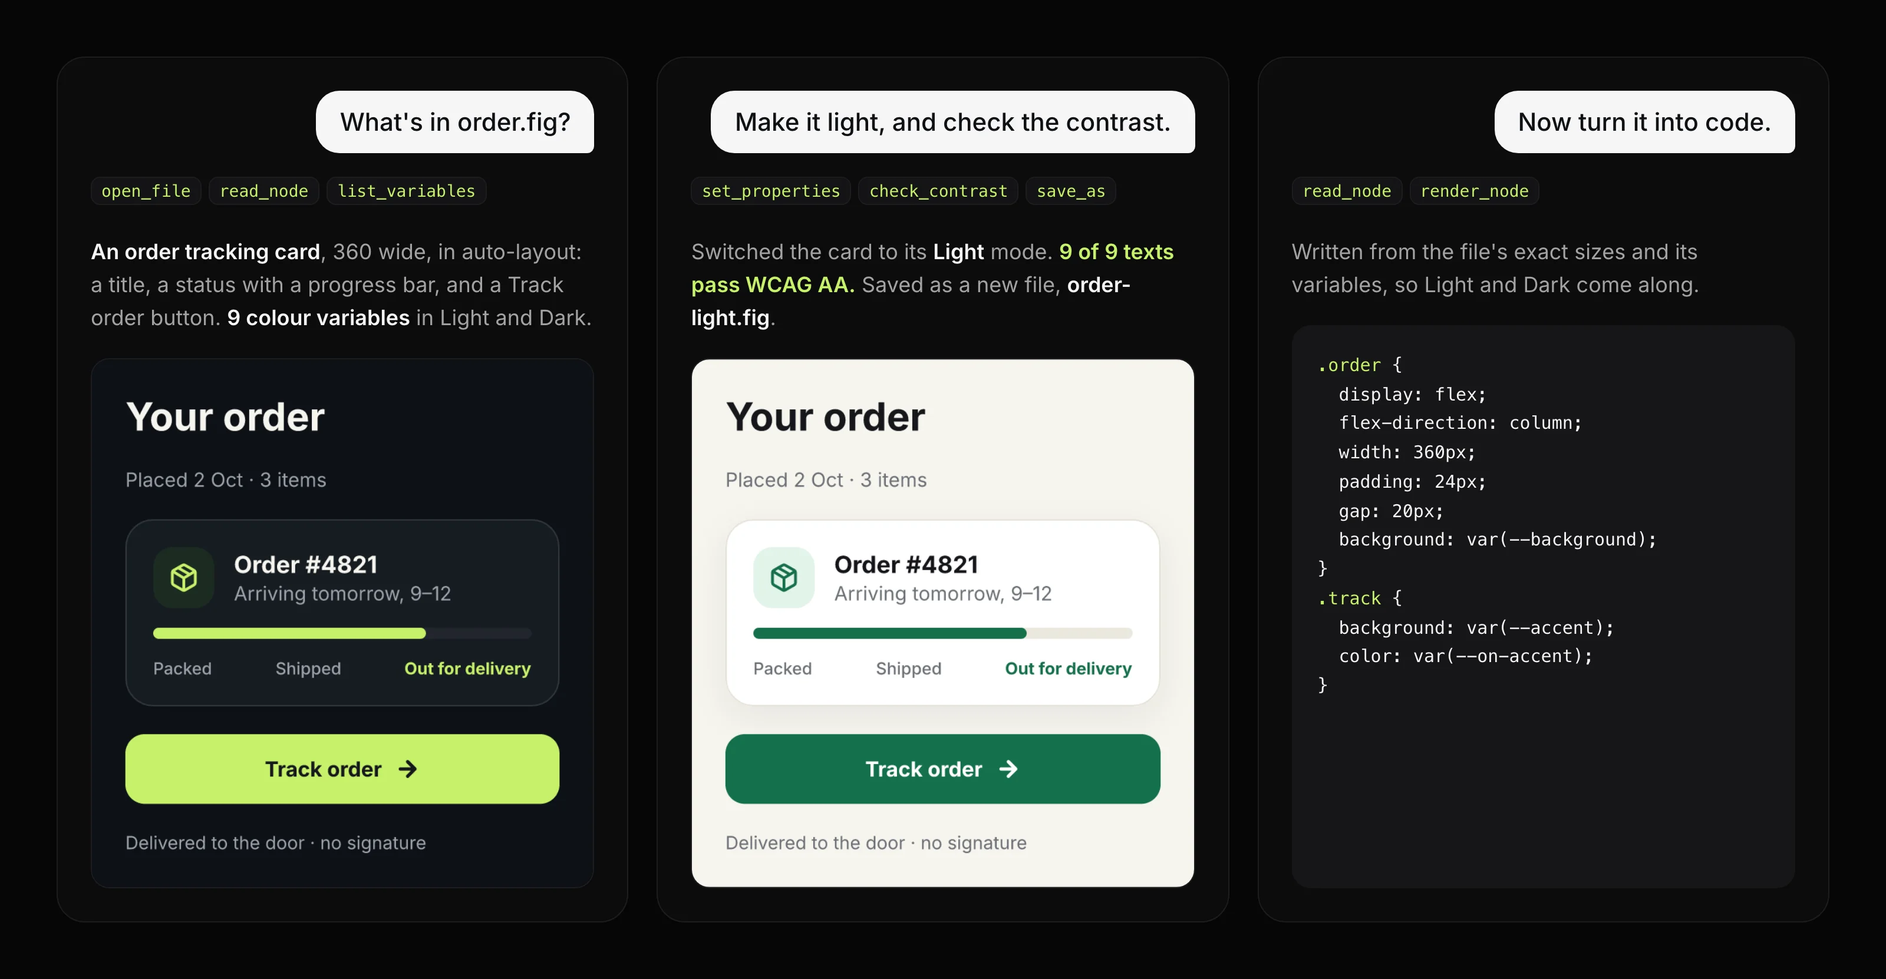
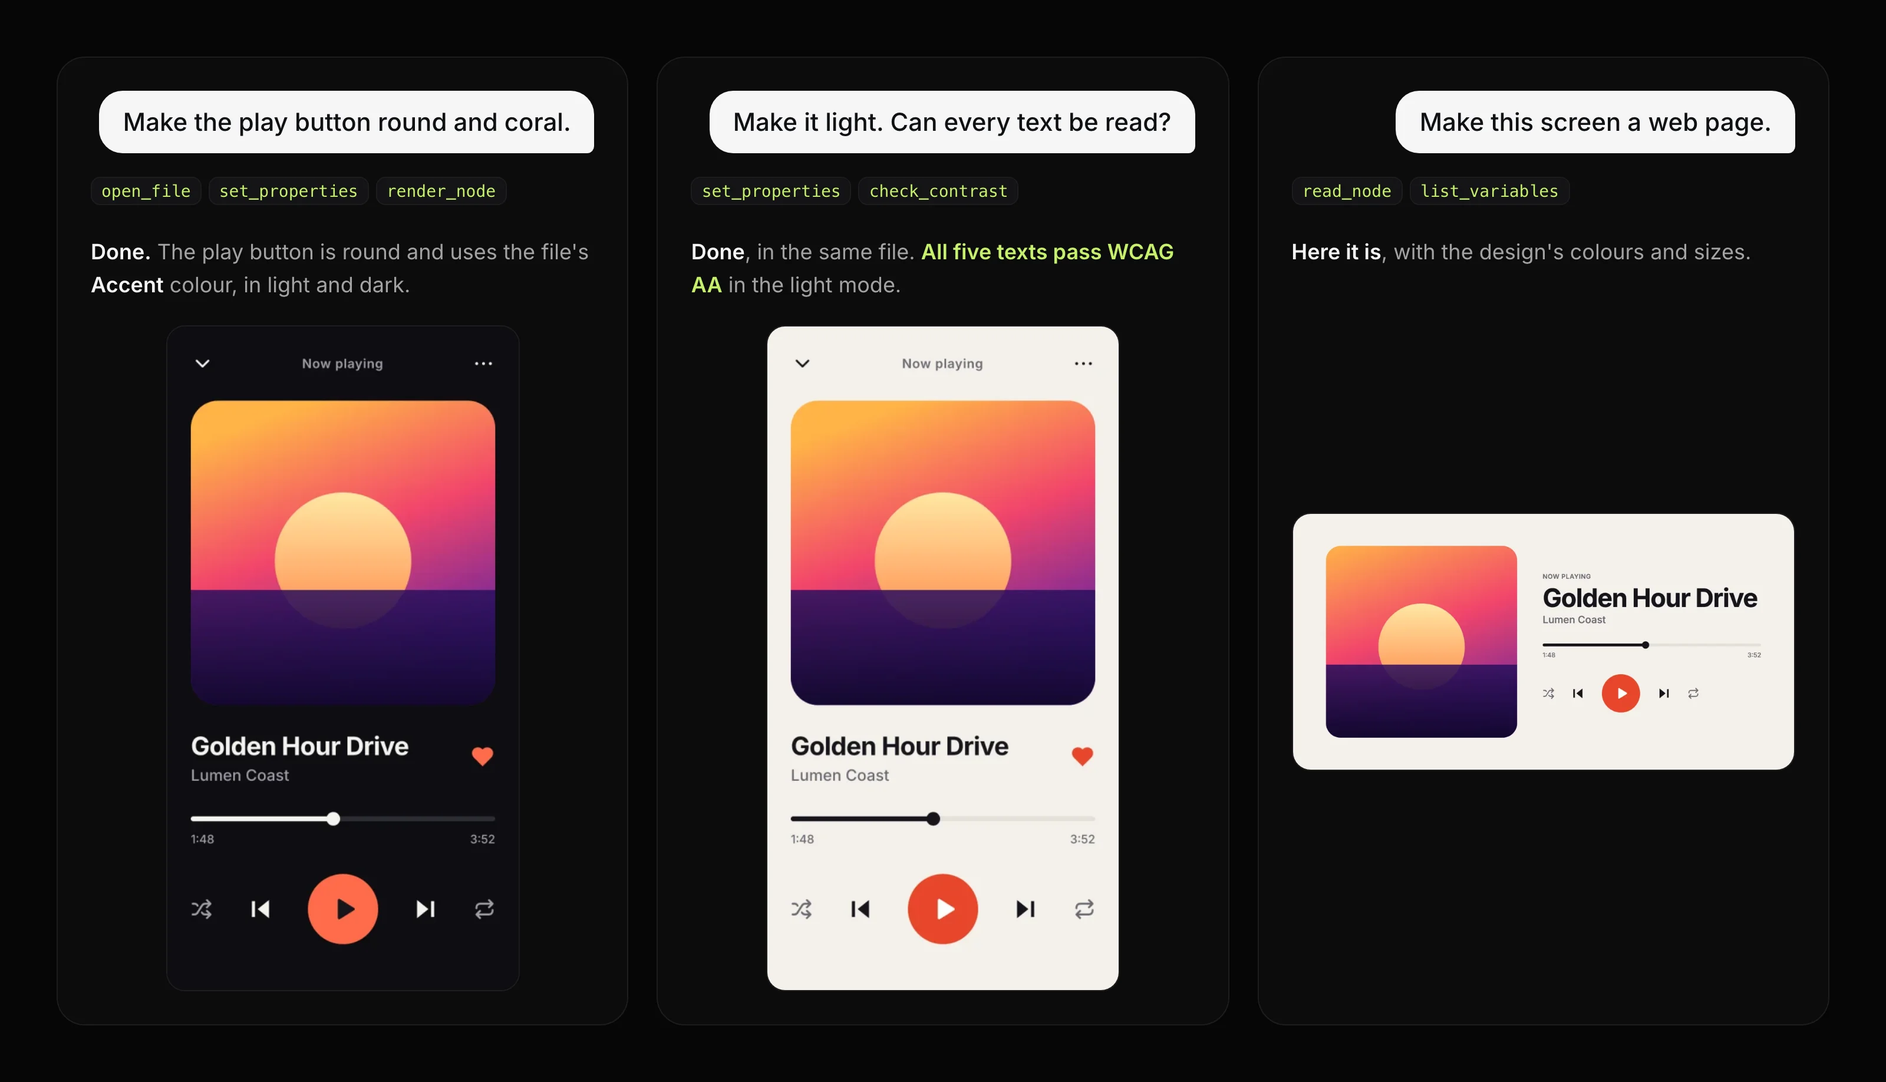
docs: a short README, with install, the panel and limits in their own documents

diff --git a/web/src/content/clients.ts b/web/src/content/clients.ts
@@ -4,7 +4,7 @@ const json = '{ "mcpServers": { "grafta": { "command": "npx", "args": ["-y", "gr
 const then = "Then, in Claude Code: claude mcp add grafta -- grafta mcp";
 const NODE = "Needs Node.js 18 or newer.";
 
-// As README.md's Install section has them: the AI apps, Claude Desktop first (the
+// As docs/INSTALL.md has them: the AI apps, Claude Desktop first (the
 // app of the home's video, and the one with no terminal), then the program.
 export const clients: Client[] = [
   {
@@ -117,7 +117,7 @@ export const clients: Client[] = [
 export const sample = { file: "order.fig", href: "sample/order.fig" };
 export const firstRequest = "Using grafta, what's in order.fig?";
 
-/** grafta's panel for Figma's desktop app, as README.md's "In Figma" gives it. */
+/** grafta's panel for Figma's desktop app, as docs/guides/in-figma.md gives it. */
 export const panel = {
   file: "grafta-figma-plugin.zip",
   href: "https://github.com/n0ss4/grafta/releases/latest/download/grafta-figma-plugin.zip",

diff --git a/web/src/components/home/Install.tsx b/web/src/components/home/Install.tsx
@@ -8,7 +8,7 @@ import { Band, Head, Wrap } from "./Section";
 /**
  * Getting grafta, on the page, in the order it is done: the AI app, then
  * grafta's panel in Figma for the file you have open, then the first request.
- * Every step is here, the panel's included, as README.md's "In Figma" has it.
+ * Every step is here, the panel's included, as docs/guides/in-figma.md has it.
  */
 export function Install() {
   return (

diff --git a/README.md b/README.md
@@ -10,7 +10,7 @@
 
 <p align="center">
   <a href="#install"><strong>Install</strong></a>&ensp;
-  <a href="#in-figma">In Figma</a>&ensp;
+  <a href="docs/guides/in-figma.md">In Figma</a>&ensp;
   <a href="docs/TOOLS.md">Tools</a>&ensp;
   <a href="#documentation">Docs</a>&ensp;
   <a href="https://n0ss4.github.io/grafta/">Website</a>
@@ -19,123 +19,55 @@
 <p align="center">
   <picture>
     <source media="(prefers-color-scheme: dark)" srcset=".github/readme/talk-dark.webp">
-    <img src=".github/readme/talk-light.webp" width="100%" alt="Three requests to an AI app, each with the grafta tools it called. What's in order.fig? An order tracking card, 360 wide, with 9 colour variables in Light and Dark, and its picture. Make it light, and check the contrast: the card in its Light mode, 9 of 9 texts pass WCAG AA, saved as order-light.fig. Now turn it into code: CSS with the card's sizes and its variables.">
+    <img src=".github/readme/talk-light.webp" width="100%" alt="Three requests to an AI app about a music player design, each with the grafta tools it called. Make the play button round and coral: done, with the file's Accent colour. Make it light, can every text be read: all five texts pass WCAG AA. Make this screen a web page: the page, with the design's colours and sizes.">
   </picture>
-  <br>
-  <sub>The sample file, <a href="https://n0ss4.github.io/grafta/sample/order.fig">order.fig</a>. The pictures and the contrast result are grafta's own; the code is an example of what a model writes from them.</sub>
 </p>
 
-**Talk to your Figma files through the AI you already use.** Ask Claude, ChatGPT, Cursor or OpenCode what's in a design, ask it to change something, or to turn it into code. You write in words; grafta is what lets your AI open the file, read it exactly and change it.
+**Talk to your Figma files through the AI you already use.** Ask Claude, ChatGPT, Cursor or OpenCode what's in a design, ask it to change something, or to turn it into code. You write in words; grafta lets your AI open the file, read it exactly and change it.
 
-There is nothing new to learn and no editor to open. grafta works on your computer, with no internet and no Figma account. With [its panel](#in-figma) in Figma's desktop app, your AI works on the file you have open too, and you see each change as it is made.
+It works on your computer, with no internet and no Figma account. With [its panel](docs/guides/in-figma.md) in Figma's desktop app, it works on the file you have open too, and you see each change as it is made.
 
 ## What you get
 
-- **Ask what's in a design.** Its screens, colours, variables and components, explained in plain words.
-- **Change it by asking.** Colours, text, layout, a dark mode, a new screen. Your AI draws the result to check it before it says it is done.
+- **Ask what's in a design.** Its screens, colours, variables and components, in plain words.
+- **Change it by asking.** Colours, text, layout, a dark mode, a new screen. Your AI draws the result to check it.
 - **Turn it into code.** In your stack, with the file's exact sizes, colours and icons.
-- **Never guessed.** Every value comes from the file itself. When grafta leaves something out, it says so.
-- **Your files stay yours.** It never writes over a file: changes are saved as a new one, and nothing leaves your computer through grafta.
+- **Never guessed.** Every value comes from the file. When grafta leaves something out, it says so.
+- **Your files stay yours.** Changes are saved as a new file, never over yours.
 - **Every Figma product.** Figma Design, Slides, FigJam and Sites files.
 - **Free and open source.** MIT licence, no account, no API key.
 
 ## Install
 
-| Where | Run | Needs |
-|---|---|---|
-| **Claude Desktop** | download [`grafta.mcpb`](https://github.com/n0ss4/grafta/releases/latest/download/grafta.mcpb) and open it | nothing else |
-| **Claude Code** | `/plugin install grafta --marketplace n0ss4/grafta` | Node.js 18+ |
-| **ChatGPT desktop, Codex** | `codex plugin marketplace add n0ss4/grafta@main && codex plugin add grafta@grafta` | Node.js 18+ |
-| **OpenCode** | `opencode mcp add grafta --global -- npx -y grafta mcp` | Node.js 18+ |
-
-Claude Desktop installs the bundle from *Settings → Extensions*. The Claude Code plugin registers the server and teaches the model how to use it. For OpenCode, `--global` registers it for every project; leave it out for the current one only.
-
-### As a program
-
-| Platform | Command |
+| Your AI app | Run |
 |---|---|
-| macOS, Linux | `curl -fsSL https://raw.githubusercontent.com/n0ss4/grafta/main/install.sh \| sh` |
-| Homebrew | `brew install n0ss4/tap/grafta` |
-| Windows | `irm https://raw.githubusercontent.com/n0ss4/grafta/main/install.ps1 \| iex` |
-| npm | `npx -y grafta mcp` |
-| Rust | `cargo install grafta` |
+| **Claude Desktop** | download [`grafta.mcpb`](https://github.com/n0ss4/grafta/releases/latest/download/grafta.mcpb) and open it |
+| **Claude Code** | `/plugin install grafta --marketplace n0ss4/grafta` |
+| **ChatGPT desktop, Codex** | `codex plugin marketplace add n0ss4/grafta@main && codex plugin add grafta@grafta` |
+| **OpenCode** | `opencode mcp add grafta --global -- npx -y grafta mcp` |
 
-Then register it once, for example in Claude Code:
+Then ask, in words: *Using grafta, what have I selected in Figma?*
 
-```bash
-claude mcp add grafta -- grafta mcp
-```
-
-Or in a client configured with JSON:
-
-| Client | File | Configuration |
-|---|---|---|
-| **Cursor** | `.cursor/mcp.json` (or `~/.cursor/mcp.json`) | `{ "mcpServers": { "grafta": { "command": "npx", "args": ["-y", "grafta", "mcp"] } } }` |
-| **Claude Desktop**, by hand | `claude_desktop_config.json` | the same as Cursor |
-| **VS Code** | `.vscode/mcp.json` | `{ "servers": { "grafta": { "command": "npx", "args": ["-y", "grafta", "mcp"] } } }` |
-
-With grafta installed by the script, Homebrew or Cargo, `"command": "grafta", "args": ["mcp"]` does the same without npm.
-
-Prebuilt for macOS (Apple silicon and Intel), Linux (x86_64 and arm64) and Windows (x86_64), as one self-contained binary. The binaries are not signed: if macOS says it cannot check grafta the first time it runs, allow it in *System Settings → Privacy & Security*. We have run it by hand on a Mac with Apple silicon, in Claude Code and Claude Desktop; the tests also pass on Linux and Windows in CI. The other apps use the same setup and have not been tried by us. ChatGPT on the web reads no local server, so it cannot use grafta yet.
-
-If something does not work, [Troubleshooting](docs/TROUBLESHOOTING.md) goes by what you see.
-
-### In Figma
-
-To work on the file you have open in Figma's desktop app, add grafta's panel to Figma once. grafta must be installed in your AI app as above, the same release as the panel.
-
-1. Download [`grafta-figma-plugin.zip`](https://github.com/n0ss4/grafta/releases/latest/download/grafta-figma-plugin.zip) and unzip it.
-2. In Figma's desktop app: *Plugins → Development → Import plugin from manifest…*, and choose the `manifest.json` in that folder.
-3. Open a file, then *Plugins → Development → grafta*. The panel looks for grafta on your computer.
-4. With your AI app running grafta, the panel finds it and asks whether to allow it. Click **Allow**: it does not ask again on this computer.
-
-Each change shows in the file as it is made, and Figma saves it: each call grafta makes is one step of *Edit → Undo*. The panel gathers the calls of each request and shows each one before and after, with *Revert this request* to put it all back. Choose **Ask me first** to apply or skip each change yourself, protect the layers the AI must not touch, and **Stop** refuses every call until you press Resume. It talks to grafta on your computer and to nothing else. A few tools are not there yet, such as `export_pdf` and `check_contrast`: the [tool reference](docs/TOOLS.md) says, for each, what it does on the open file. Figma in a browser has not been tried.
-
-## Try it
-
-Ask in words, in your AI app:
-
-> Using grafta, what have I selected in Figma?
-
-> Using grafta, what's in order.fig?
-
-> Make it light, and check the contrast. Now turn it into code.
-
-No file at hand? Use [this sample](https://n0ss4.github.io/grafta/sample/order.fig). A Figma file on your computer comes from *File → Save local copy…* in Figma. In Claude Desktop, say where the file is, like `~/Downloads/order.fig`: a file uploaded to the chat lives in Claude's cloud, so Claude copies it to a folder on your Mac that you allow, and grafta opens it there.
-
-No AI app at hand? [Open a Figma file in your browser](https://n0ss4.github.io/grafta/open/): its pages and screens, PNGs and design tokens, with grafta running in the page and nothing uploaded.
-
-[What to ask](docs/guides/what-to-ask.md) has prompts for code, dark mode, audits, tokens, accessibility, screens from data and decks.
+Cursor, VS Code, the program for macOS, Linux and Windows, and what each needs: [Install](docs/INSTALL.md). For the file you have open, add [grafta's panel](docs/guides/in-figma.md) to Figma's desktop app.
 
 ## "What's the catch?"
 
-None. grafta is free and open source, needs no Figma account or API key, and makes no network call. What your model reads through it is a tool result like any other, sent wherever your AI app sends the conversation.
-
-It does not interpret designs: your model does. grafta answers what is in the file and writes what it is told, so how good the code is depends on your model. It writes no code itself.
-
-## Limits
-
-- **On a file, it is not live.** You work on a saved copy and open the new file it gives back. For the file you have open, use [the panel](#in-figma), or [Figma's own server](https://developers.figma.com/docs/figma-mcp-server/).
-- **It works on files**, and with its panel on the file open in Figma's desktop app, not Figma's cloud. `new_file` takes Figma's format from a `.fig` you have; grafta does not ship it.
-- **Pictures are close, not Figma's.** They use the fonts installed on your machine: with the design's font installed, most lines lay out within 2% of Figma's width; without it, a stand-in is used and the caption says so.
-- **An open file costs memory**, far more than its size: on one Mac, a 57 MB file took 1.3 GB while open and an 86 MB one 5.5 GB. Close what you are done with.
-- **Not yet:** auto-layout grids, component slots, boolean operations, directional transitions and mouse enter and leave in a prototype written (they are read), Dev Mode annotations, and component properties on variants.
-- **Only grafta's own variables and styles can be changed.** The file's existing ones are read and bound to, not edited.
+None. grafta is free and open source, needs no account and makes no network call. It does not interpret designs: your model does, so how good the code is depends on your model. What it cannot do yet is in [Limits](docs/LIMITS.md).
 
 ## Documentation
 
-- [Tool reference](docs/TOOLS.md), generated from the server's own tool list ([on the website](https://n0ss4.github.io/grafta/tools/))
-- [What to ask](docs/guides/what-to-ask.md), and what each family of tools does
-- [Examples](docs/guides/examples.md): the four products, a frame designed in three steps, Figma to json-render
-- [From Figma to json-render](docs/guides/json-render.md)
-- [From a web page](docs/guides/from-a-web-page.md): HTML to editable layers with `import_layout`
-- [From a terminal](docs/guides/from-a-terminal.md): the same tools without a model, and batches for CI
-- [Troubleshooting](docs/TROUBLESHOOTING.md)
+- [Install](docs/INSTALL.md)
+- [In Figma](docs/guides/in-figma.md): the panel for the file you have open
+- [What to ask](docs/guides/what-to-ask.md)
+- [Tool reference](docs/TOOLS.md)
+- [Examples](docs/guides/examples.md)
+- [From a web page](docs/guides/from-a-web-page.md) and [from a terminal](docs/guides/from-a-terminal.md)
+- [Limits](docs/LIMITS.md) and [Troubleshooting](docs/TROUBLESHOOTING.md)
 
 ## Contributing
 
-How it is built ([ARCHITECTURE](docs/ARCHITECTURE.md)), where it is going ([ROADMAP](docs/ROADMAP.md)) and how to work on it ([CONTRIBUTING](docs/CONTRIBUTING.md)). What changed is in the [CHANGELOG](CHANGELOG.md); report a vulnerability as [SECURITY](SECURITY.md) says.
+Read [CONTRIBUTING](docs/CONTRIBUTING.md) and [ARCHITECTURE](docs/ARCHITECTURE.md). Where it is going: [ROADMAP](docs/ROADMAP.md). Report a vulnerability as [SECURITY](SECURITY.md) says.
 
 ## Licence
 
-MIT. grafta is not affiliated with Figma, and reads and writes its format with no help from it.
+MIT. grafta is not affiliated with Figma.

diff --git a/docs/INSTALL.md b/docs/INSTALL.md
@@ -1,0 +1,57 @@
+# Install
+
+| Where | Run | Needs |
+|---|---|---|
+| **Claude Desktop** | download [`grafta.mcpb`](https://github.com/n0ss4/grafta/releases/latest/download/grafta.mcpb) and open it | nothing else |
+| **Claude Code** | `/plugin install grafta --marketplace n0ss4/grafta` | Node.js 18+ |
+| **ChatGPT desktop, Codex** | `codex plugin marketplace add n0ss4/grafta@main && codex plugin add grafta@grafta` | Node.js 18+ |
+| **OpenCode** | `opencode mcp add grafta --global -- npx -y grafta mcp` | Node.js 18+ |
+
+Claude Desktop installs the bundle from *Settings → Extensions*. The Claude Code plugin registers the server and teaches the model how to use it. For OpenCode, `--global` registers it for every project; leave it out for the current one only.
+
+## As a program
+
+| Platform | Command |
+|---|---|
+| macOS, Linux | `curl -fsSL https://raw.githubusercontent.com/n0ss4/grafta/main/install.sh \| sh` |
+| Homebrew | `brew install n0ss4/tap/grafta` |
+| Windows | `irm https://raw.githubusercontent.com/n0ss4/grafta/main/install.ps1 \| iex` |
+| npm | `npx -y grafta mcp` |
+| Rust | `cargo install grafta` |
+
+Then register it once, for example in Claude Code:
+
+```bash
+claude mcp add grafta -- grafta mcp
+```
+
+Or in a client configured with JSON:
+
+| Client | File | Configuration |
+|---|---|---|
+| **Cursor** | `.cursor/mcp.json` (or `~/.cursor/mcp.json`) | `{ "mcpServers": { "grafta": { "command": "npx", "args": ["-y", "grafta", "mcp"] } } }` |
+| **Claude Desktop**, by hand | `claude_desktop_config.json` | the same as Cursor |
+| **VS Code** | `.vscode/mcp.json` | `{ "servers": { "grafta": { "command": "npx", "args": ["-y", "grafta", "mcp"] } } }` |
+
+With grafta installed by the script, Homebrew or Cargo, `"command": "grafta", "args": ["mcp"]` does the same without npm.
+
+Prebuilt for macOS (Apple silicon and Intel), Linux (x86_64 and arm64) and Windows (x86_64), as one self-contained binary. The binaries are not signed: if macOS says it cannot check grafta the first time it runs, allow it in *System Settings → Privacy & Security*. We have run it by hand on a Mac with Apple silicon, in Claude Code and Claude Desktop; the tests also pass on Linux and Windows in CI. The other apps use the same setup and have not been tried by us. ChatGPT on the web reads no local server, so it cannot use grafta yet.
+
+If something does not work, [Troubleshooting](TROUBLESHOOTING.md) goes by what you see.
+
+
+## Try it
+
+Ask in words, in your AI app:
+
+> Using grafta, what have I selected in Figma?
+
+> Using grafta, what's in order.fig?
+
+> Make it light, and check the contrast. Now turn it into code.
+
+No file at hand? Use [this sample](https://n0ss4.github.io/grafta/sample/order.fig). A Figma file on your computer comes from *File → Save local copy…* in Figma. In Claude Desktop, say where the file is, like `~/Downloads/order.fig`: a file uploaded to the chat lives in Claude's cloud, so Claude copies it to a folder on your Mac that you allow, and grafta opens it there.
+
+No AI app at hand? [Open a Figma file in your browser](https://n0ss4.github.io/grafta/open/): its pages and screens, PNGs and design tokens, with grafta running in the page and nothing uploaded.
+
+[What to ask](guides/what-to-ask.md) has prompts for code, dark mode, audits, tokens, accessibility, screens from data and decks.

diff --git a/docs/guides/in-figma.md b/docs/guides/in-figma.md
@@ -1,0 +1,10 @@
+# In Figma
+
+To work on the file you have open in Figma's desktop app, add grafta's panel to Figma once. grafta must be installed in your AI app ([Install](../INSTALL.md)), the same release as the panel.
+
+1. Download [`grafta-figma-plugin.zip`](https://github.com/n0ss4/grafta/releases/latest/download/grafta-figma-plugin.zip) and unzip it.
+2. In Figma's desktop app: *Plugins → Development → Import plugin from manifest…*, and choose the `manifest.json` in that folder.
+3. Open a file, then *Plugins → Development → grafta*. The panel looks for grafta on your computer.
+4. With your AI app running grafta, the panel finds it and asks whether to allow it. Click **Allow**: it does not ask again on this computer.
+
+Each change shows in the file as it is made, and Figma saves it: each call grafta makes is one step of *Edit → Undo*. The panel gathers the calls of each request and shows each one before and after, with *Revert this request* to put it all back. Choose **Ask me first** to apply or skip each change yourself, protect the layers the AI must not touch, and **Stop** refuses every call until you press Resume. It talks to grafta on your computer and to nothing else. A few tools are not there yet, such as `export_pdf` and `check_contrast`: the [tool reference](../TOOLS.md) says, for each, what it does on the open file. Figma in a browser has not been tried.

diff --git a/docs/TROUBLESHOOTING.md b/docs/TROUBLESHOOTING.md
@@ -93,7 +93,7 @@ The same goes for `npx`: `command -v npx` gives its full path.
 
 **Check the file and the key.** Each app has its own file and its own shape:
 VS Code uses `"servers"`, the others `"mcpServers"`. The
-[README](../README.md#install) has the line for each. A comma out of place
+[Install](INSTALL.md) has the line for each. A comma out of place
 stops the whole file from being read, so try it in a JSON checker if you
 edited it by hand.
 
@@ -107,7 +107,7 @@ edited it by hand.
 | VS Code | *Output* panel, the server's own entry under *MCP* |
 
 **ChatGPT on the web cannot use grafta.** It does not run tools from your
-machine. The ChatGPT desktop app, with the Codex line in the README, can.
+machine. The ChatGPT desktop app, with the Codex line in [Install](INSTALL.md), can.
 
 ## Text looks wrong, or a result says a font is not installed
 
@@ -177,7 +177,7 @@ installed apart, so one can be updated and the other not.
 **What to do.** The panel says which one to update.
 
 - *grafta … is older than this panel*: update grafta the way you installed it
-  ([installing](../README.md#install)), then start your AI app or a new
+  ([installing](INSTALL.md)), then start your AI app or a new
   conversation in it again.
 - *This panel is older than grafta …*: download `grafta-figma-plugin.zip`
   from the same release as your grafta (`grafta --version`), unzip it over the

diff --git a/docs/LIMITS.md b/docs/LIMITS.md
@@ -1,0 +1,8 @@
+# Limits
+
+- **On a file, it is not live.** You work on a saved copy and open the new file it gives back. For the file you have open, use [the panel](guides/in-figma.md), or [Figma's own server](https://developers.figma.com/docs/figma-mcp-server/).
+- **It works on files**, and with its panel on the file open in Figma's desktop app, not Figma's cloud. `new_file` takes Figma's format from a `.fig` you have; grafta does not ship it.
+- **Pictures are close, not Figma's.** They use the fonts installed on your machine: with the design's font installed, most lines lay out within 2% of Figma's width; without it, a stand-in is used and the caption says so.
+- **An open file costs memory**, far more than its size: on one Mac, a 57 MB file took 1.3 GB while open and an 86 MB one 5.5 GB. Close what you are done with.
+- **Not yet:** auto-layout grids, component slots, boolean operations, directional transitions and mouse enter and leave in a prototype written (they are read), Dev Mode annotations, and component properties on variants.
+- **Only grafta's own variables and styles can be changed.** The file's existing ones are read and bound to, not edited.

diff --git a/docs/guides/json-render.md b/docs/guides/json-render.md
@@ -14,7 +14,7 @@ spec below, drawn by json-render 0.22.0 with `@json-render/shadcn`.
 ## What you need
 
 - The Figma file, saved from Figma with *File → Save local copy…*
-- grafta in your AI app: see [Install](../../README.md#install).
+- grafta in your AI app: see [Install](../INSTALL.md).
 - A React project with `@json-render/core`, `@json-render/react` and
   `@json-render/shadcn`.
 
